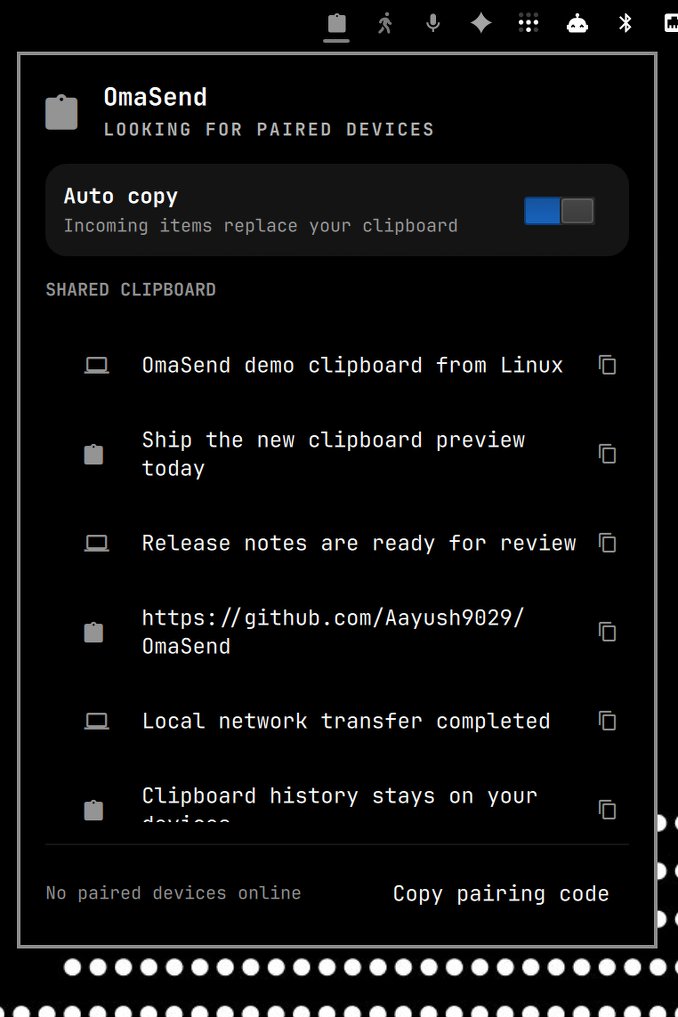
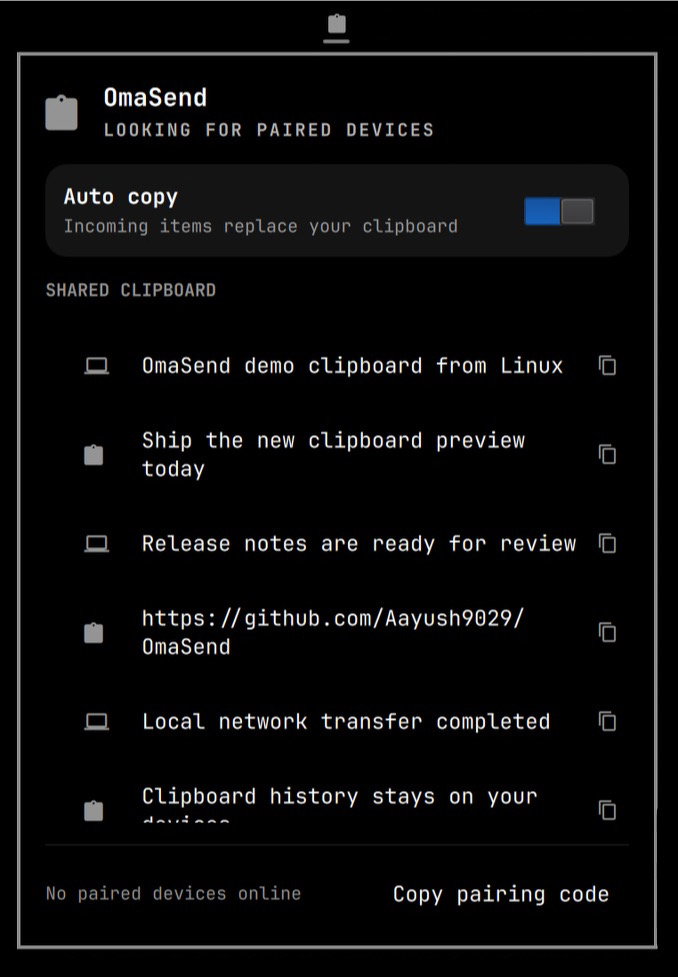
Refresh README screenshots and support stable Xcode

diff --git a/macos/Sources/OmaSend/Design/View+Glass.swift b/macos/Sources/OmaSend/Design/View+Glass.swift
@@ -3,24 +3,35 @@ import SwiftUI
 extension View {
     @ViewBuilder
     func omaGlass(cornerRadius: CGFloat) -> some View {
+#if compiler(>=6.2)
         if #available(macOS 26, *) {
             glassEffect(.regular, in: .rect(cornerRadius: cornerRadius))
         } else {
-            background {
-                VisualEffectBackground(material: .hudWindow, blendingMode: .withinWindow)
-                    .clipShape(.rect(cornerRadius: cornerRadius, style: .continuous))
-            }
-            .overlay {
-                RoundedRectangle(cornerRadius: cornerRadius, style: .continuous)
-                    .strokeBorder(.primary.opacity(0.08), lineWidth: 0.5)
-            }
+            omaLegacyGlass(cornerRadius: cornerRadius)
         }
+#else
+        omaLegacyGlass(cornerRadius: cornerRadius)
+#endif
     }
 
     @ViewBuilder
     func omaGlassButtons() -> some View {
+#if compiler(>=6.2)
         if #available(macOS 26, *) { buttonStyle(.glass) }
         else { buttonStyle(.bordered) }
+#else
+        buttonStyle(.bordered)
+#endif
+    }
+
+    private func omaLegacyGlass(cornerRadius: CGFloat) -> some View {
+        background {
+            VisualEffectBackground(material: .hudWindow, blendingMode: .withinWindow)
+                .clipShape(.rect(cornerRadius: cornerRadius, style: .continuous))
+        }
+        .overlay {
+            RoundedRectangle(cornerRadius: cornerRadius, style: .continuous)
+                .strokeBorder(.primary.opacity(0.08), lineWidth: 0.5)
+        }
     }
 }
-
